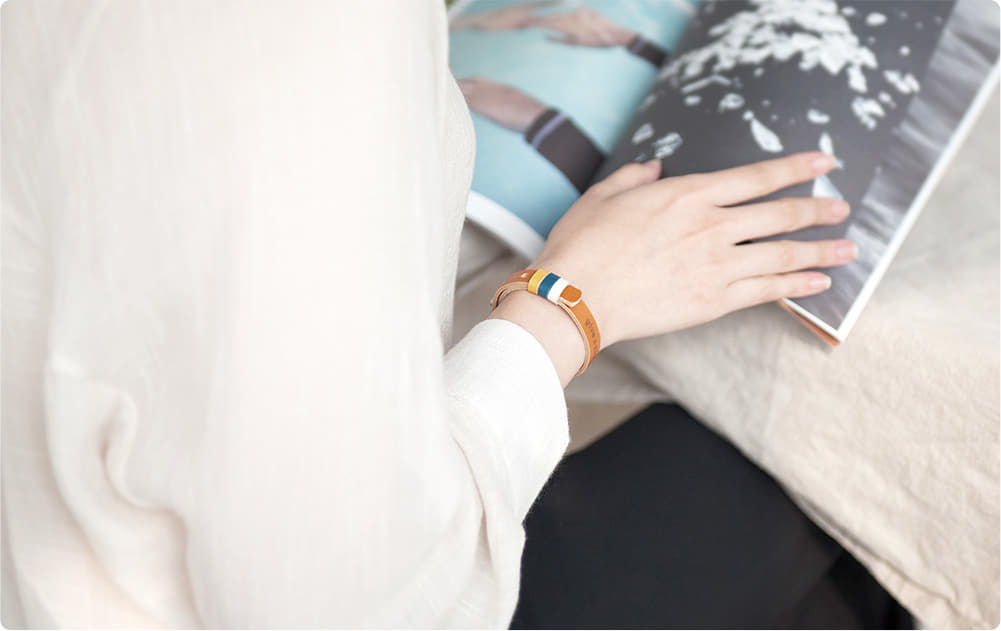
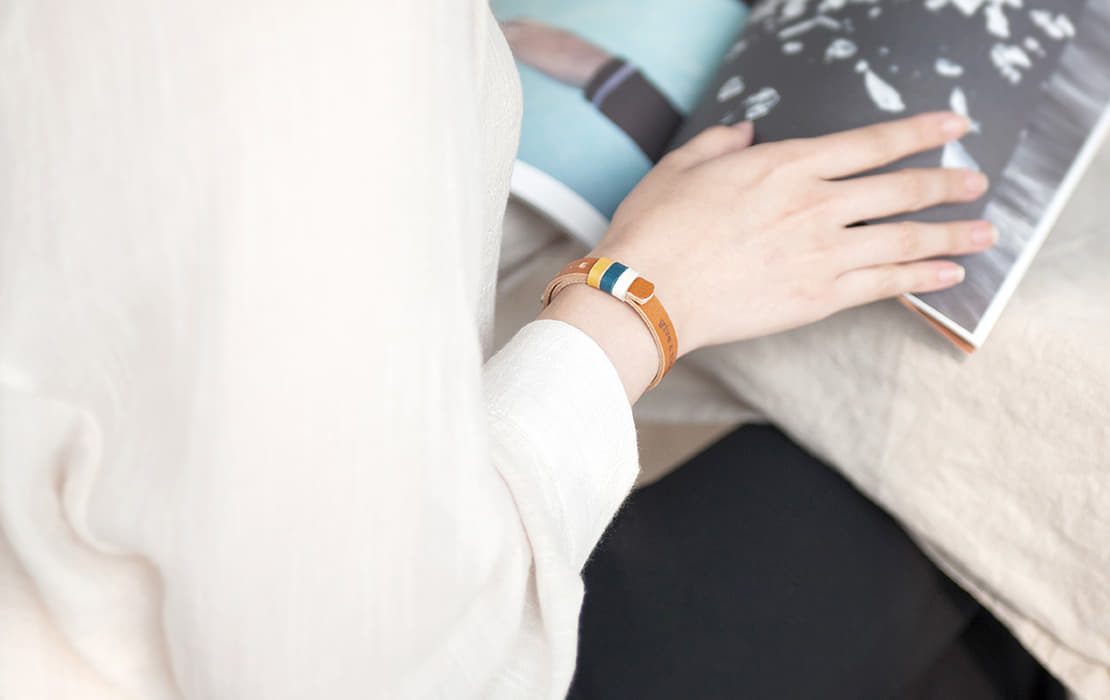
이미지 교체 및 텍스트 색상 변경

diff --git a/0905/css/responsive.css b/0905/css/responsive.css
@@ -217,7 +217,7 @@
 	#sec6 .slider.inner{position:relative;margin:0}
 	#sec6 .slider .slick-list{overflow:visible}
 	#sec6 .slider .slick-slide{overflow:hidden}
-	#sec6 .slider ul li.slick-slide{overflow:hidden}
+	#sec6 .slider ul li.slick-slide{overflow:hidden;border-radius:0}
 	#sec6 .slider ul li.slick-slide img{width:100%}
 	#sec6 .tc03{padding-top:60px;margin-bottom:30px;padding-left:0;text-align:center}
 	#sec6 .tc03 dl dt{font-size:32px}

diff --git a/0905/css/nice.css b/0905/css/nice.css
@@ -603,7 +603,7 @@ section .mobile{display:none}
 }
 
 #sec4 .tc03 dl dd p b {
-  color: #ffcc00;
+  color: #fe6b00;
   font-weight: normal
 }
 
